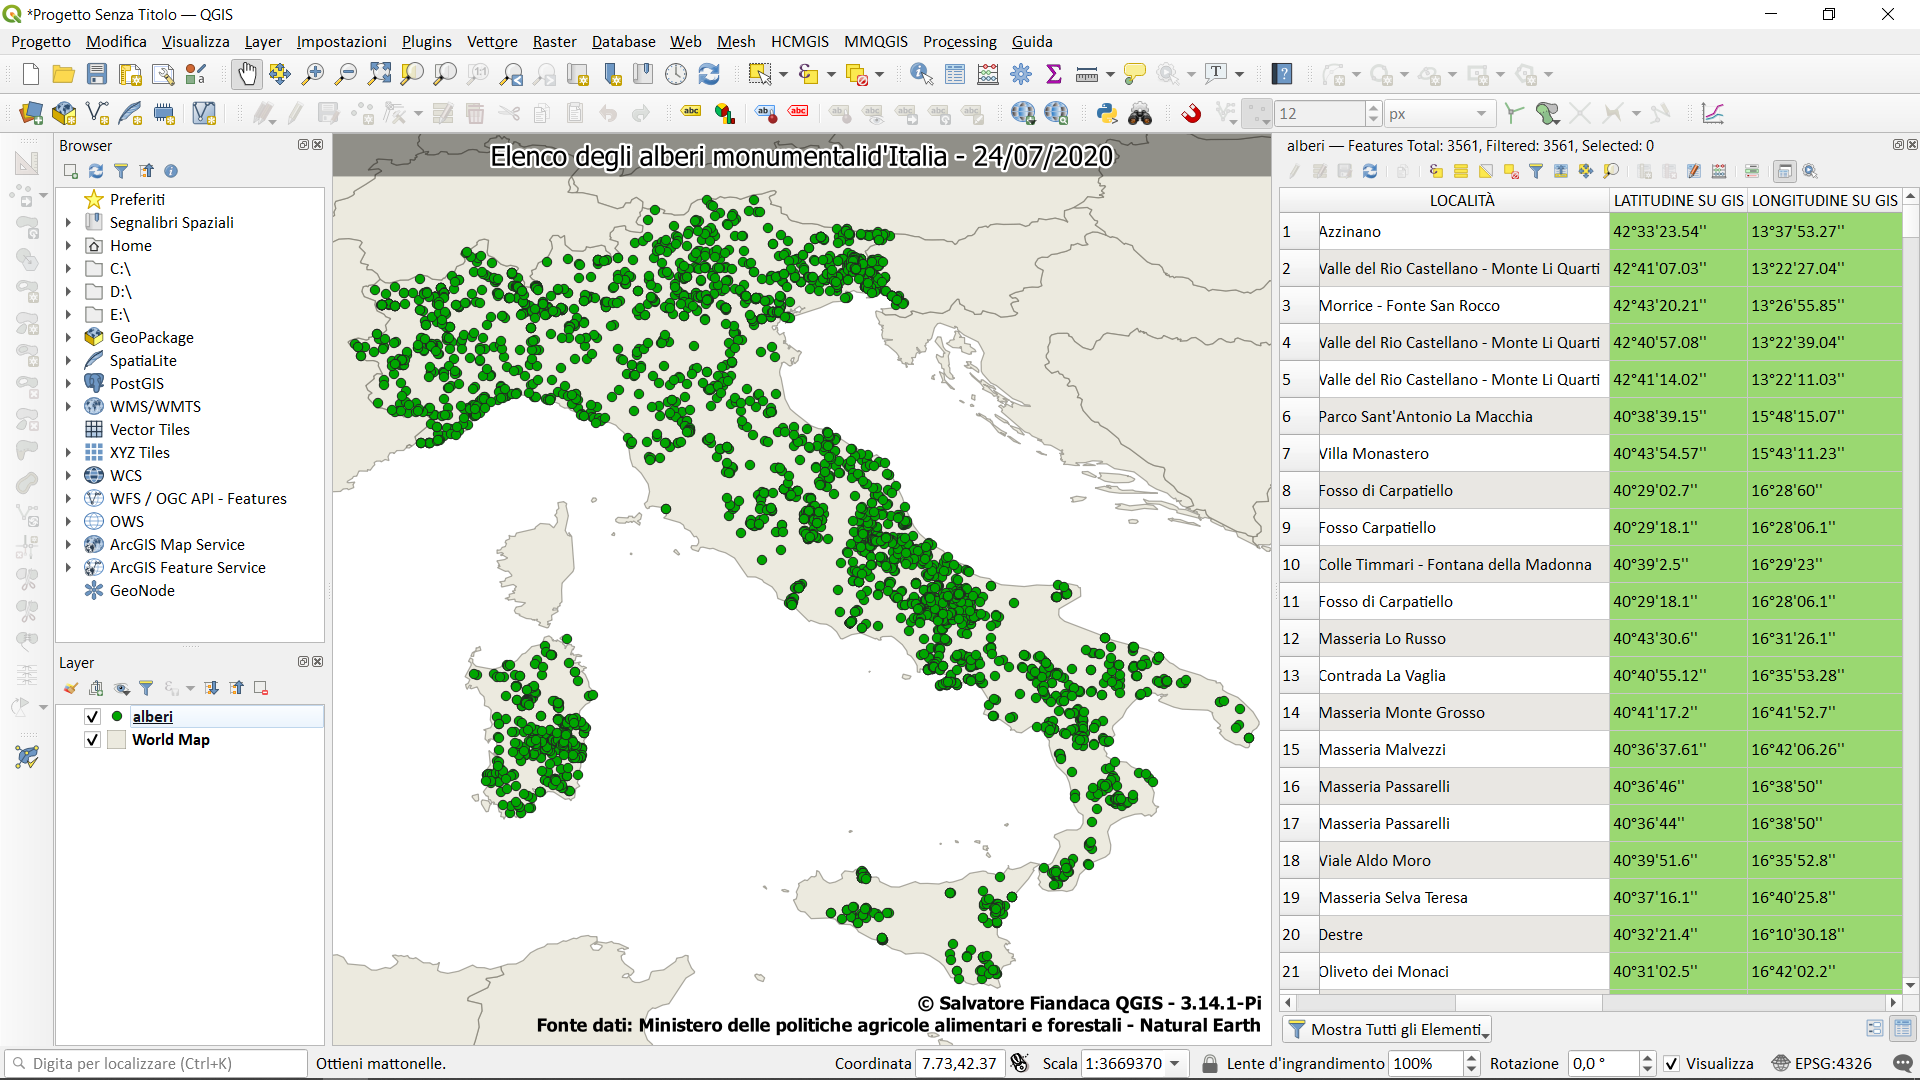
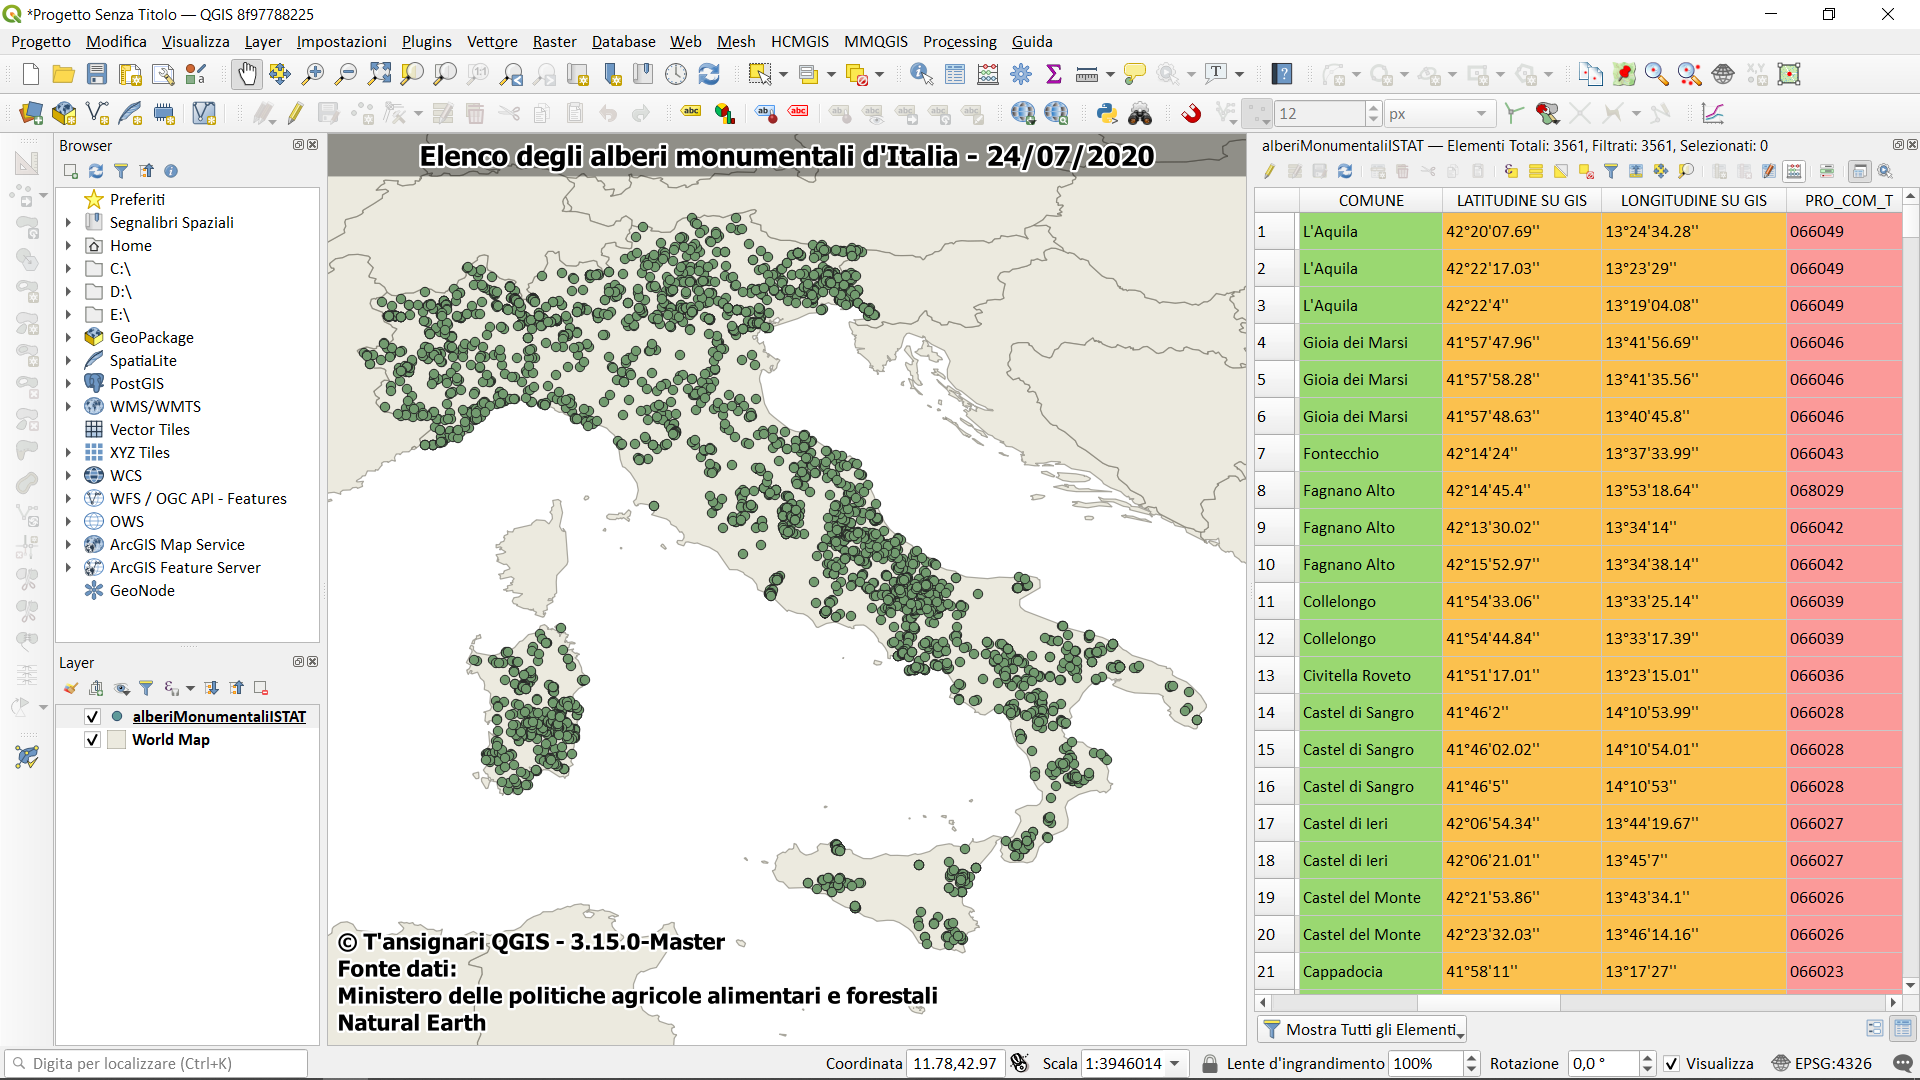
update

diff --git a/content/it/ricette/Script/Alberi_monumentali/index.md b/content/it/ricette/Script/Alberi_monumentali/index.md
@@ -22,7 +22,7 @@ guide: ["Andrea Borruso"]
 
 L' elenco degli alberi monumentali d'Italia ai sensi della Legge n. 10/2013 e del Decreto 23 ottobre 2014 è stato _aggiornato al 24-07-2020_, in questa ricetta vedremo come scaricare i file `*.xls` presenti nel [sito](https://www.politicheagricole.it/flex/cm/pages/ServeBLOB.php/L/IT/IDPagina/11260) del **Ministero delle politiche agricole alimentari e forestali** e creeremo un unico file CSV.
 
-Le difficoltà sono legati alla presenza di 21 file (da scaricare) in formato `xls`, uno per ogni regione e le Province Autonoma; le coordinate (DMS) hanno uno spazio che li rende inutilizzabili e la virgola al posto del punto decimale; per risolvere tutti questi problemi abbiamo realizzato il seguente script bash che crea un unico file CSV pronto all'uso.
+Le difficoltà sono legati alla presenza di 21 file (da scaricare) in formato `xls`, uno per ogni regione e le Province Autonome; le coordinate (DMS) hanno uno spazio che li rende inutilizzabili e la virgola al posto del punto decimale; per risolvere tutti questi problemi abbiamo realizzato il seguente _script bash_ che crea un unico file CSV e geojson pronto all'uso, lo script aggiunge anche il codice ISTAT comunale `PRO_COM_T`.
 
 ## Script bash
 
